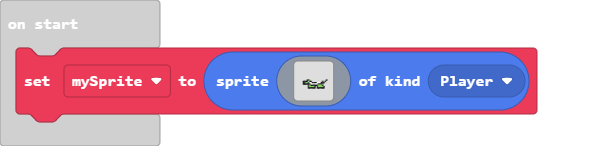
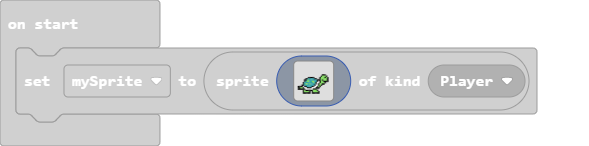
Update main.blocks, main.ts

diff --git a/main.ts b/main.ts
@@ -4,19 +4,19 @@ let mySprite = sprites.create(img`
     .........................
     .........................
     .........................
-    .........................
-    .........................
-    .........................
-    .........................
-    .......ff7............f..
-    ....ffff1ff........f.f...
-    ....ff77f11ffff111fff....
-    ....ffffff111111fff......
-    ........f7ffffff777f.....
-    ........f7777f.f7777f....
-    ........ffffff.ffffff....
-    .........................
-    .........................
-    .........................
-    .........................
+    ...................fff...
+    ..................f777f..
+    ........fffff....f777f7f.
+    ......ff66666ff..f77777f.
+    .....ff67666666fff7f777f.
+    .....f677667766f1f77ffff.
+    ....f666666676f11f777f...
+    ....f677676666f1f77ff....
+    ...ff66666666f11f7f......
+    ffff1ff6666ff11f7f.......
+    ff77f11ffff111fff........
+    ffffff111111fff..........
+    ....f7ffffff777f.........
+    ....f7777f.f7777f........
+    ....ffffff.ffffff........
     `, SpriteKind.Player)
